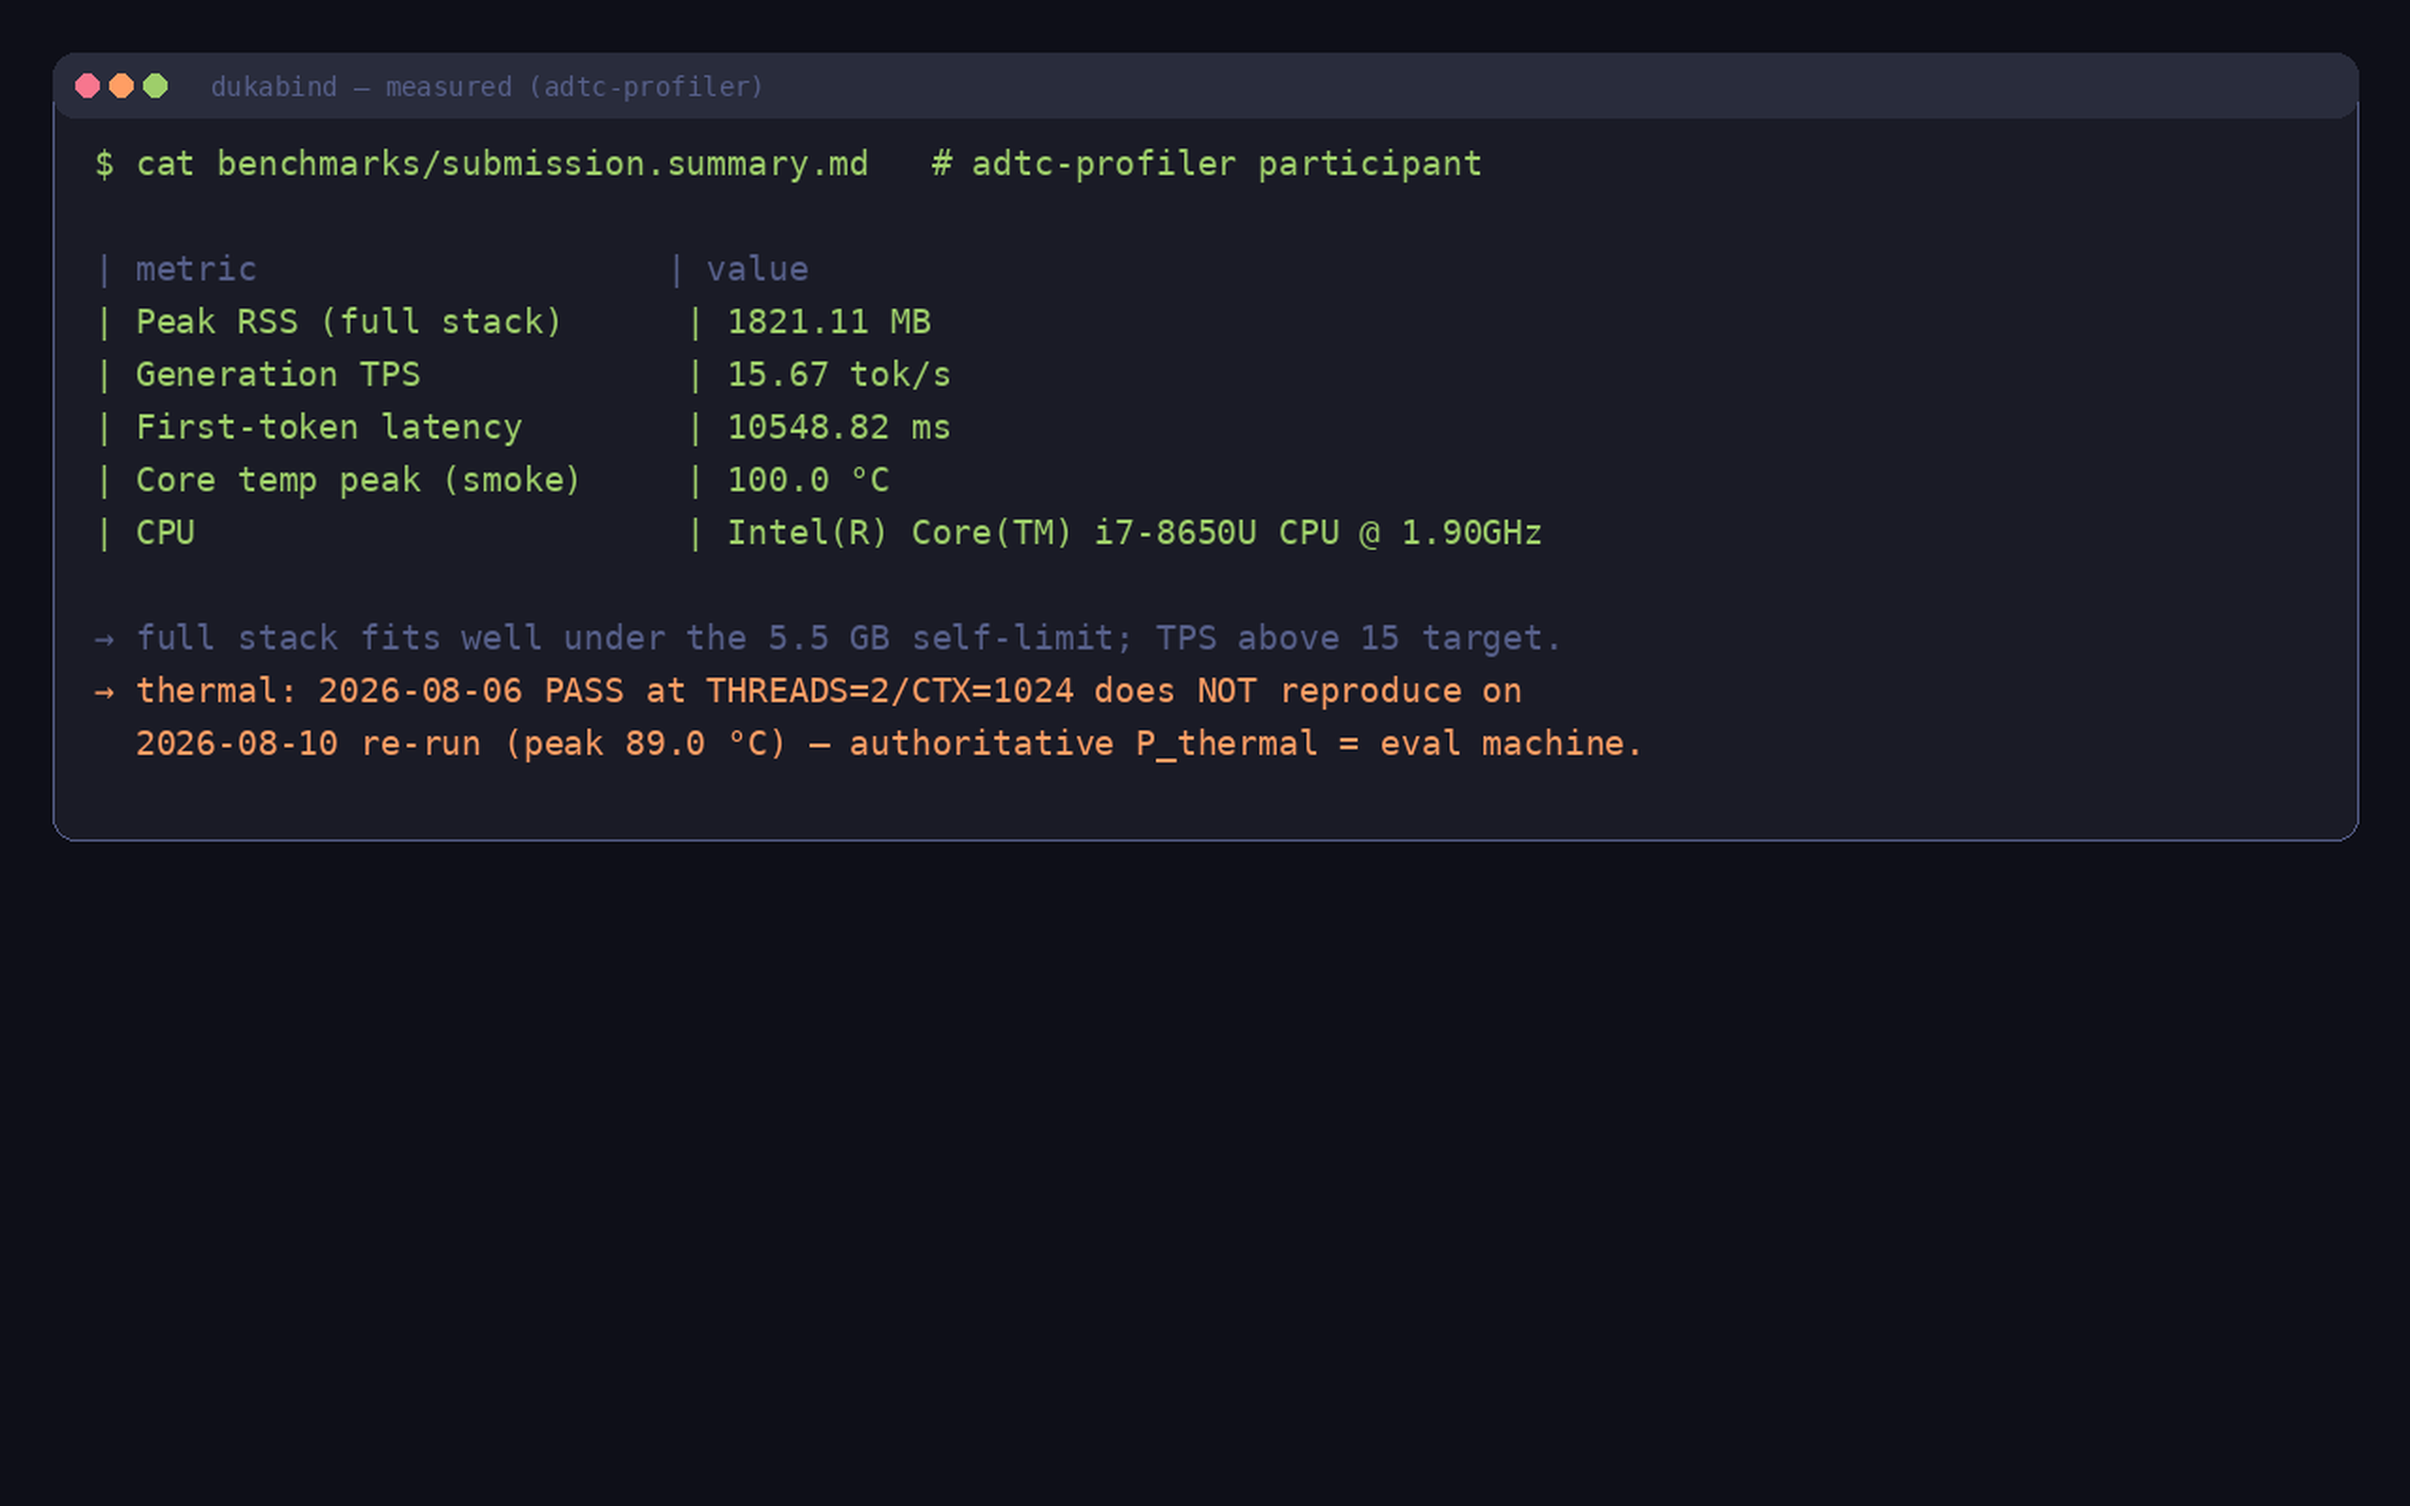
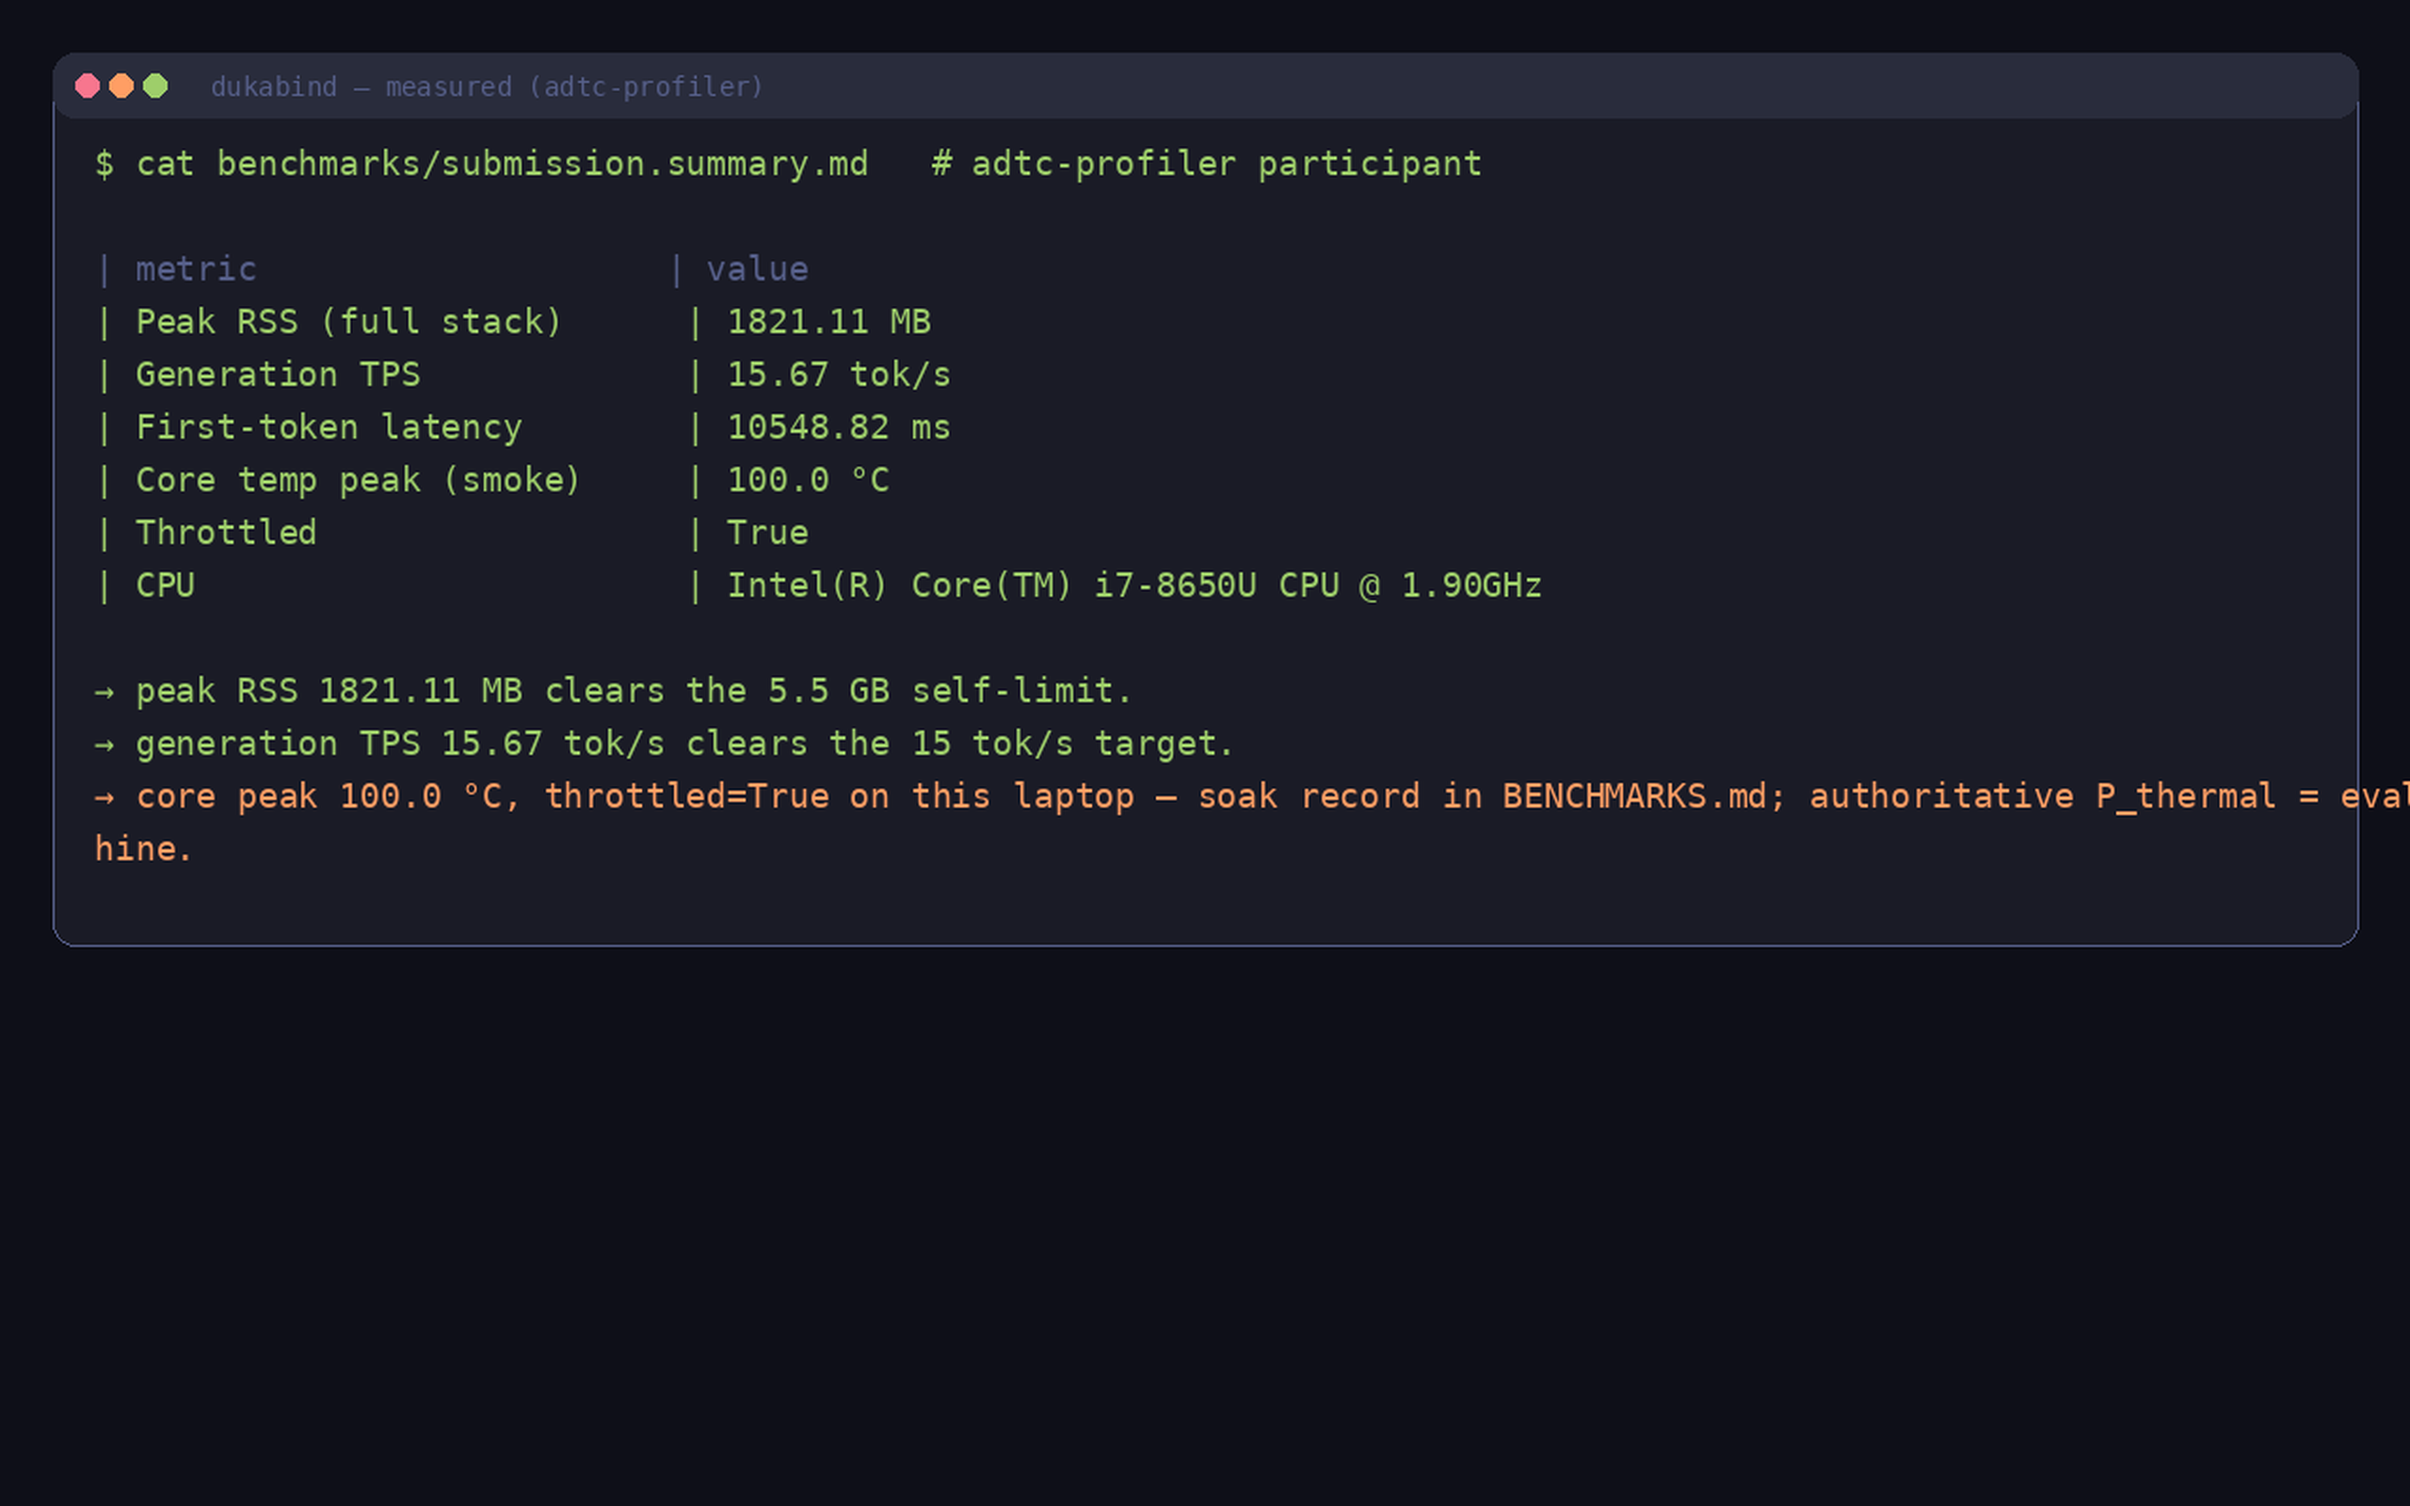
refactor(renderer): data-driven measured-screenshot footer
The measured-scene footer is now fully computed from benchmarks/submission.summary.md (peak RSS, TPS vs 15 tok/s target, core temp peak, throttled flag) instead of hand-written narrative — the hand-authored 2026-08-10 / 89.0 C line is gone; soak history stays in BENCHMARKS.md. Assets re-rendered and decode-verified (114.000 s).

Changed region(s): [[0.0312, 0.3438, 1.0, 0.5938]]

diff --git a/scripts/render_demo_assets.py b/scripts/render_demo_assets.py
@@ -389,8 +389,14 @@ def measured_stats() -> dict[str, str]:
     return out
 
 
+def _num(value: str) -> float | None:
+    """Extract the leading number from a summary cell like '1821.11 MB'."""
+    m = re.match(r"([-+]?\d*\.?\d+)", value)
+    return float(m.group(1)) if m else None
+
+
 def measured_lines() -> list[tuple[str, str]]:
-    """Terminal lines showing the measured profiler numbers."""
+    """Terminal lines showing the measured profiler numbers, threshold-checked."""
     m = measured_stats()
     if not m:
         return [("benchmarks/submission.summary.md missing", "fail")]
@@ -398,8 +404,9 @@ def measured_lines() -> list[tuple[str, str]]:
     tps = m.get("Generation TPS", "?")
     ttft = m.get("First-token latency", "?")
     temp = m.get("Core temp peak", "?")
+    throttled = m.get("Throttled", "?")
     cpu = m.get("CPU", "?")
-    return [
+    lines = [
         ("$ cat benchmarks/submission.summary.md   # adtc-profiler participant", "prompt"),
         ("", "plain"),
         ("| metric                    | value", "dim"),
@@ -407,12 +414,28 @@ def measured_lines() -> list[tuple[str, str]]:
         (f"| Generation TPS             | {tps}", "json"),
         (f"| First-token latency        | {ttft}", "json"),
         (f"| Core temp peak (smoke)     | {temp}", "json"),
+        (f"| Throttled                  | {throttled}", "json"),
         (f"| CPU                        | {cpu}", "json"),
         ("", "plain"),
-        ("→ full stack fits well under the 5.5 GB self-limit; TPS above 15 target.", "dim"),
-        ("→ thermal: 2026-08-06 PASS at THREADS=2/CTX=1024 does NOT reproduce on", "warn"),
-        ("  2026-08-10 re-run (peak 89.0 °C) — authoritative P_thermal = eval machine.", "warn"),
     ]
+    rss_n, tps_n, temp_n = (_num(x) for x in (rss, tps, temp))
+    if rss_n is not None and rss_n < 5500:
+        lines.append((f"→ peak RSS {rss} clears the 5.5 GB self-limit.", "ok"))
+    else:
+        lines.append(("→ peak RSS check inconclusive — inspect benchmarks/submission.summary.md.", "warn"))
+    if tps_n is not None and tps_n >= 15:
+        lines.append((f"→ generation TPS {tps} clears the 15 tok/s target.", "ok"))
+    else:
+        lines.append(("→ generation TPS below the 15 tok/s target on this laptop.", "warn"))
+    if (temp_n is not None and temp_n >= 85) or str(throttled).lower() == "true":
+        thermal_note = (
+            f"→ core peak {temp}, throttled={throttled} on this laptop — soak record "
+            "in BENCHMARKS.md; authoritative P_thermal = eval machine."
+        )
+        lines.append((thermal_note, "warn"))
+    else:
+        lines.append((f"→ core peak {temp}, throttled={throttled} — thermal OK on this smoke.", "ok"))
+    return lines
 
 
 # ----------------------------------------------------------------- screens
